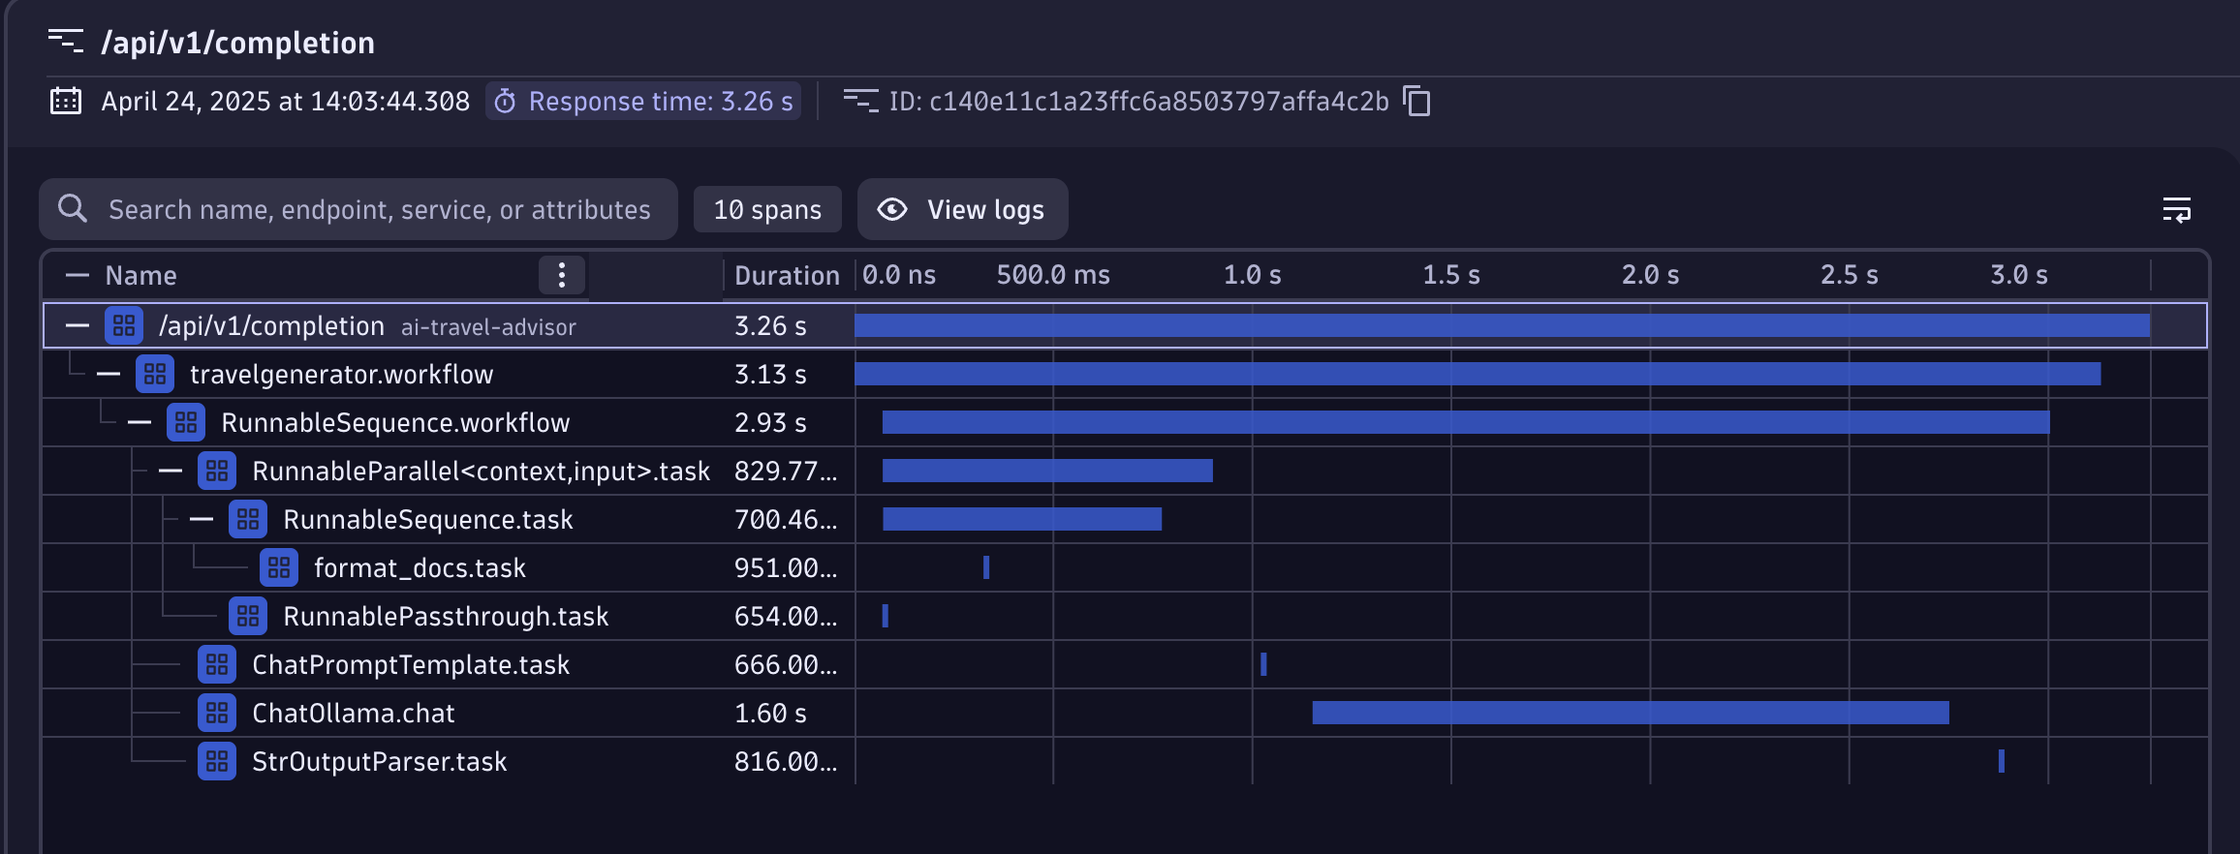
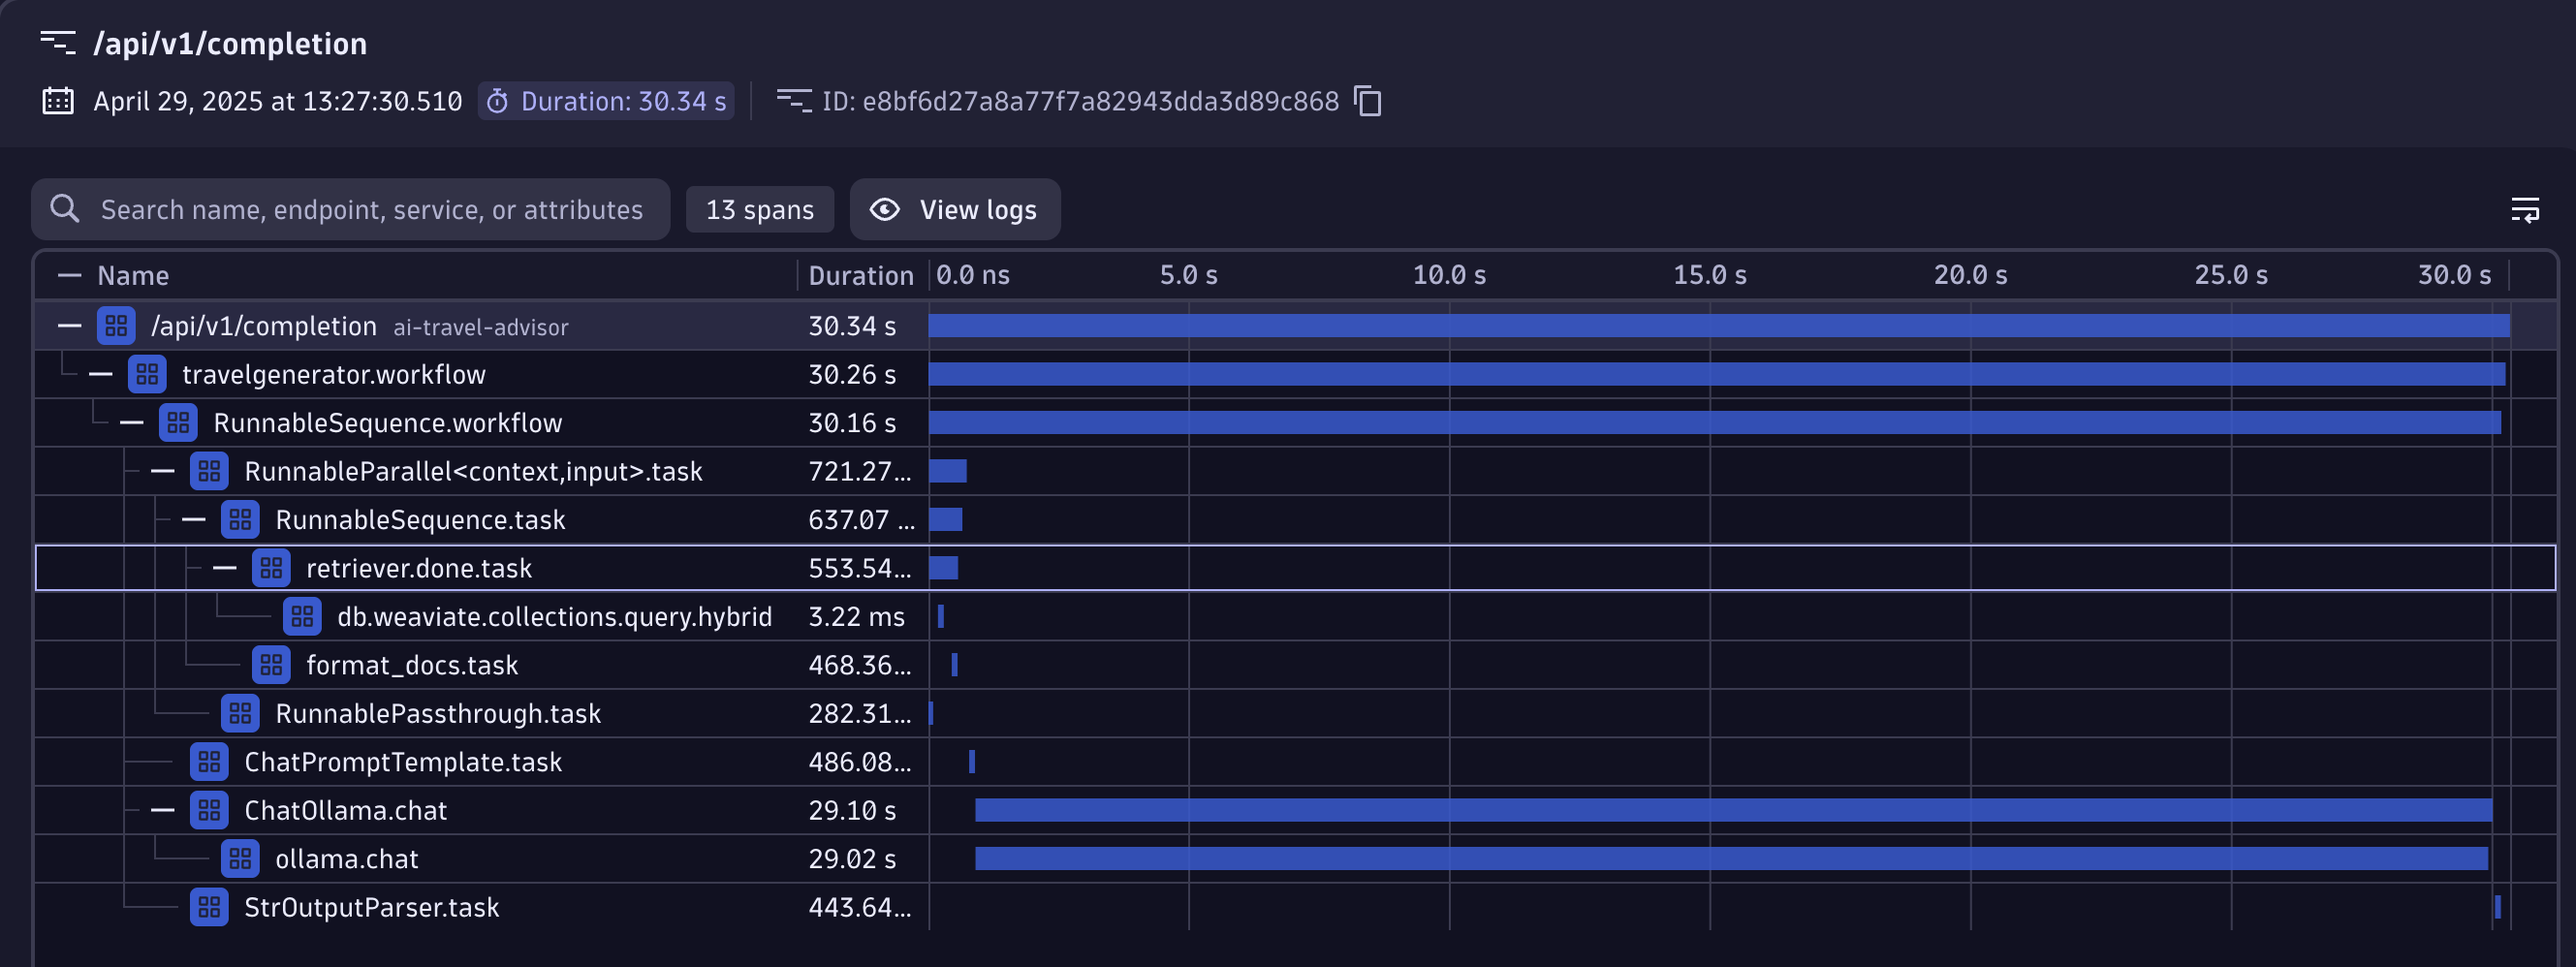
Final polish and tagging to v0.1.0

Changed region(s): [[0.0, 0.1837, 0.9965, 1.0], [0.0, 0.0306, 0.654, 0.1531]]

diff --git a/docs/6-rag.md b/docs/6-rag.md
@@ -20,22 +20,26 @@ Let's investigate what could be the reason of such a weird answer.
 Let's use again the Distributed Tracing App to inspect the request.
 
 ![RAG Trace](./img/rag_trace.png)
-!!! bug "change with new screenshot"
 
 We can see that the request is more complex because there is a step to fetch documents from Weaviate, process them, augment the prompt and finally send the final crafted prompt to Ollama.
+Fetching the documents is a fast step that only takes few milliseconds and crafting the final response is taking almost all the time.
 Selecting each span, we have at our disposal all the contextual information that describe that AI pipeline step.
-Let's focus on the call to Ollama and select the `ChatOllama.chat` span.
 
+Let's focus on the time expensive call to Ollama and select the `ChatOllama.chat` span.
 In the detailed view, we can see the GenAI section. Let's start from the prompt message:
 
 ![RAG Trace Details](./img/rag_details.png)
 
-
-We can see that the prompt sent to the LLM contains information about Sydney and Bali.
-This is a clear indicator that our Knowledge Base inside Weaviate is not exahustive enough.
+We can see that the prompt sent to the LLM contains information about Sydney and Bali. Clearly something is wrong!
 LangChain retrieves the top N documents closest to the topic searched. 
+Let's see the fetched documents by pressing on the `retriever.done.task` span and looking into its attributes.
+
+![RAG Document Details](./img/rag_docs.png)
+
+We see that the query is looking for `Sydney` and two documents have been retrieved from Weaviate, one for Sydney and one for Bali.
 If we look into the application code, inside the `destinations` folder, we see only two small documents.
 The lack of coverage of the topic triggered the fetching of additional documents that don't really relate to Sydney.
+This is a clear indicator that our Knowledge Base inside Weaviate is not exahustive enough.
 
 Furthermore, we can also observe that feeding the LLM with garbage information produces garbage responses.
 The content of the Sydney or Bali documents provide innacurate facts. 
